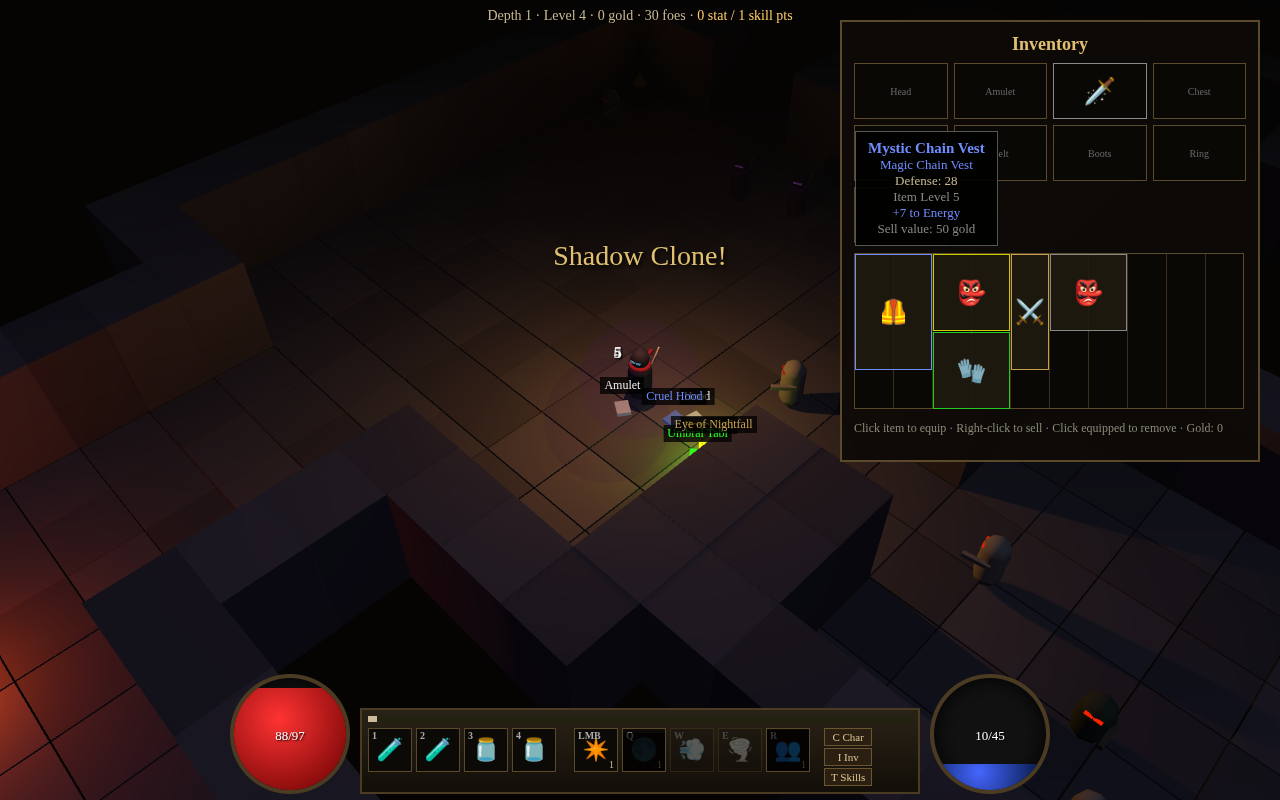
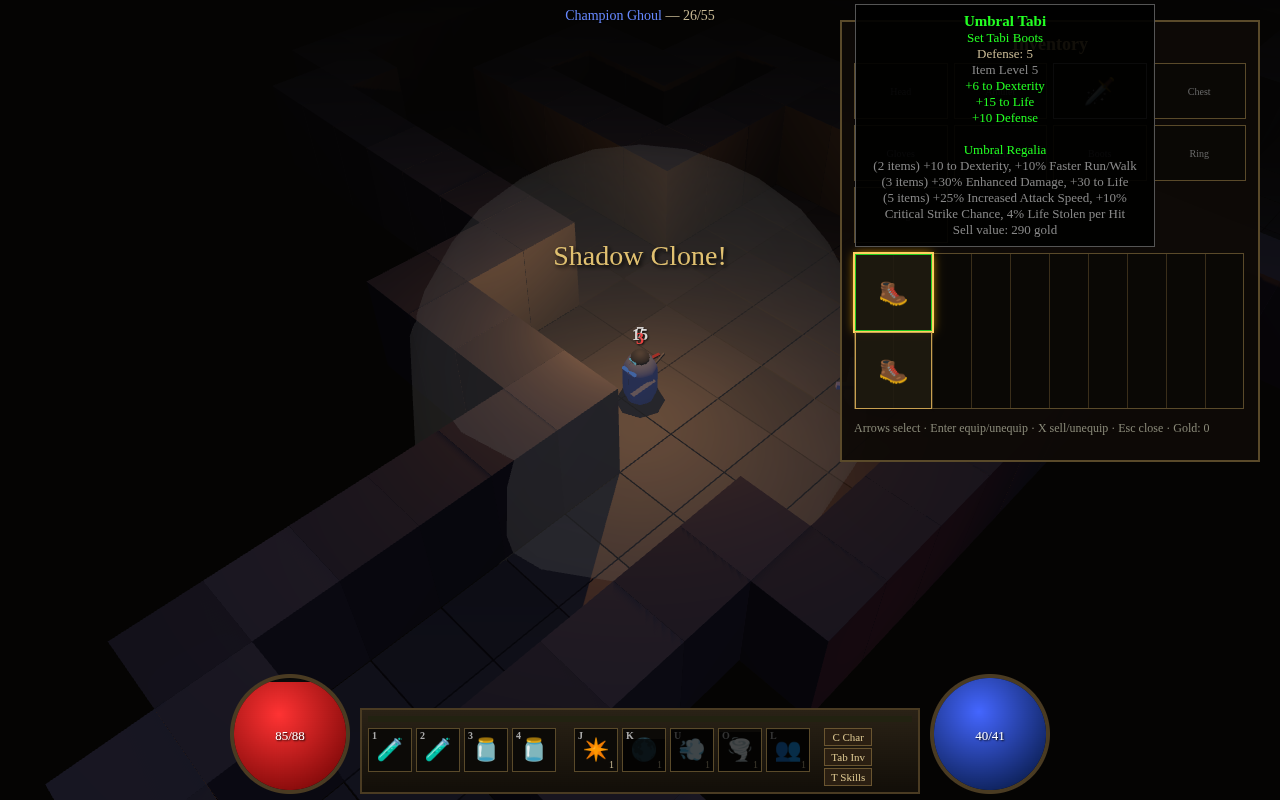
Full keyboard controls, panel navigation, death screen

diff --git a/game.js b/game.js
@@ -82,14 +82,14 @@ const P={lvl:1,xp:0,str:15,dex:25,vit:15,ene:12,pts:0,sp:1,gold:0,hp:1,mp:1,pos:
  eq:{},inv:[],belt:[],skills:{shuriken:1,step:1,fifth:1,clone:1,smoke:0,venom:0,evasion:0,flurry:0,mastery:0},cds:{},clones:[],cloneT:0,dead:false};
 P.belt=['hp','hp','mp','mp'];
 const SK={
- shuriken:{n:'Shuriken Spread',ic:'✴',key:'LMB',t:1,d:r=>`Throw 3 shurikens in a spread. +${15*r}% damage.`},
- step:{n:'Shadow Step',ic:'🌑',key:'Q',t:1,mana:8,cd:r=>Math.max(1.5,5-r*0.3),d:r=>`Teleport behind the nearest enemy and strike for ${150+40*r}% damage.`},
+ shuriken:{n:'Shuriken Spread',ic:'✴',key:'J',t:1,d:r=>`Throw 3 shurikens in a spread. +${15*r}% damage.`},
+ step:{n:'Shadow Step',ic:'🌑',key:'K',t:1,mana:8,cd:r=>Math.max(1.5,5-r*0.3),d:r=>`Teleport behind the nearest enemy and strike for ${150+40*r}% damage.`},
  fifth:{n:'Fifth Star',ic:'⭐',t:1,pass:1,d:r=>`Passive: every 5th attack fires ${r} extra shuriken(s).`},
- smoke:{n:'Smoke Bomb',ic:'💨',key:'W',t:2,mana:12,cd:r=>8,req:'step',d:r=>`Blinds & stuns nearby enemies for ${(1.5+r*0.25).toFixed(1)}s and deals ${80+30*r}% damage.`},
+ smoke:{n:'Smoke Bomb',ic:'💨',key:'U',t:2,mana:12,cd:r=>8,req:'step',d:r=>`Blinds & stuns nearby enemies for ${(1.5+r*0.25).toFixed(1)}s and deals ${80+30*r}% damage.`},
  venom:{n:'Venom Edge',ic:'🧪',t:2,pass:1,req:'shuriken',d:r=>`Passive: hits poison for ${10*r}% weapon damage per second (3s).`},
  evasion:{n:'Evasion',ic:'🌀',t:2,pass:1,req:'fifth',d:r=>`Passive: ${Math.min(40,4*r)}% chance to dodge attacks.`},
- flurry:{n:'Blade Flurry',ic:'🌪',key:'E',t:3,mana:15,cd:r=>3,req:'smoke',d:r=>`Spin, slashing all nearby enemies for ${200+50*r}% damage.`},
- clone:{n:'Shadow Clone',ic:'👥',key:'R',t:1,mana:25,cd:r=>Math.max(15,30-r),d:r=>`Summon two shadow ninjas that copy your attacks for ${10+Math.floor(r/2)}s at ${50+10*r}% damage.`},
+ flurry:{n:'Blade Flurry',ic:'🌪',key:'O',t:3,mana:15,cd:r=>3,req:'smoke',d:r=>`Spin, slashing all nearby enemies for ${200+50*r}% damage.`},
+ clone:{n:'Shadow Clone',ic:'👥',key:'L',t:1,mana:25,cd:r=>Math.max(15,30-r),d:r=>`Summon two shadow ninjas that copy your attacks for ${10+Math.floor(r/2)}s at ${50+10*r}% damage.`},
  mastery:{n:'Shadow Mastery',ic:'🗡',t:3,pass:1,req:'clone',d:r=>`Passive: +${3*r}% critical chance and +${5*r}% damage.`}};
 const TIERLVL={1:1,2:6,3:12};
 function stat(k){let v=0;for(const s in P.eq){const it=P.eq[s];if(it&&it.a[k])v+=it.a[k];}
@@ -186,22 +186,22 @@ function ui(){recalc();
   $('#belt').innerHTML=P.belt.map((p,i)=>`<div class="slot"><b>${i+1}</b>${p?(p==='hp'?'🧪':'🫙'):''}</div>`).join('');
   $('#skills').innerHTML=['shuriken','step','smoke','flurry','clone'].map(k=>`<div class="slot" title="${SK[k].n}" style="${P.skills[k]?'':'opacity:.3'}"><b>${SK[k].key}</b>${SK[k].ic}<i>${P.skills[k]||''}</i><div class="cd" id="cd_${k}"></div></div>`).join('');
   const c=$('#char');c.innerHTML=`<h2>Nyx — Shadow Ninja</h2><div class="row"><span>Level</span><span>${P.lvl}</span></div><div class="row"><span>Experience</span><span>${P.xp} / ${xpNeed(P.lvl)}</span></div><div class="row"><span>Gold</span><span>${P.gold}</span></div>
-   <div class="row"><span>Stat points</span><span>${P.pts}</span></div>`+[['str','Strength'],['dex','Dexterity'],['vit','Vitality'],['ene','Energy']].map(([k,n])=>`<div class="row"><span>${n}</span><span>${S[k]}${P.pts?`<button class="plus" data-a="${k}">+</button>`:''}</span></div>`).join('')+
+   <div class="row"><span>Stat points</span><span>${P.pts}</span></div>`+[['str','Strength'],['dex','Dexterity'],['vit','Vitality'],['ene','Energy']].map(([k,n])=>`<div class="row attr"><span>${n}</span><span>${S[k]}${P.pts?`<button class="plus" data-a="${k}">+</button>`:''}</span></div>`).join('')+
    `<br><div class="row"><span>Damage</span><span>${Math.round(S.dmin*(1+S.ed/100))}-${Math.round(S.dmax*(1+S.ed/100))}</span></div><div class="row"><span>Attacks / sec</span><span>${S.aps.toFixed(2)}</span></div><div class="row"><span>Crit chance</span><span>${S.crit.toFixed(1)}%</span></div>
    <div class="row"><span>Defense</span><span>${S.armor}</span></div><div class="row"><span>Life</span><span>${Math.round(S.maxhp)}</span></div><div class="row"><span>Mana</span><span>${Math.round(S.maxmp)}</span></div><div class="row"><span>Life steal</span><span>${S.ll}%</span></div><div class="row"><span>Magic find</span><span>${S.mf}%</span></div><div class="row"><span>Dodge</span><span>${S.dodge}%</span></div>`;
-  c.querySelectorAll('[data-a]').forEach(b=>b.onclick=()=>{P[b.dataset.a]++;P.pts--;ui();});
+  c.innerHTML+='<p class="small">↑↓ select attribute · Enter spend point · Esc close</p>';c.querySelectorAll('[data-a]').forEach(b=>b.onclick=()=>{P[b.dataset.a]++;P.pts--;ui();});
   const tr=$('#tree');let th=`<h2>Skill Tree — ${P.sp} point(s)</h2>`;
   for(const t of [1,2,3]){th+=`<div style="color:#998;margin-top:6px">Tier ${t} (level ${TIERLVL[t]})</div>`;for(const k in SK){const s=SK[k];if(s.t!==t)continue;const r=P.skills[k];
     const ok=P.lvl>=TIERLVL[t]&&(!s.req||P.skills[s.req]>0);th+=`<div class="tnode ${ok?'':'locked'}"><h4><span>${s.ic} ${s.n}${s.key?' ['+s.key+']':''}</span><span>${r}/20 ${ok&&P.sp&&r<20?`<button class="plus" data-s="${k}">+</button>`:''}</span></h4><p>${s.d(Math.max(1,r))}</p>${s.req?`<p style="color:#776">Requires ${SK[s.req].n}</p>`:''}</div>`;}}
-  tr.innerHTML=th;tr.querySelectorAll('[data-s]').forEach(b=>b.onclick=()=>{P.skills[b.dataset.s]++;P.sp--;ui();});
+  th+='<p class="small">↑↓ select · Enter learn · Esc close</p>';tr.innerHTML=th;tr.querySelectorAll('[data-s]').forEach(b=>b.onclick=()=>{P.skills[b.dataset.s]++;P.sp--;ui();});
   const inv=$('#inv');inv.innerHTML=`<h2>Inventory</h2><div id="equip">${SLOTS.map(([s,n])=>{const it=P.eq[s];return `<div class="eq ${it?'r'+it.r:''}" data-e="${s}">${it?`<span class="ic">${it.base.ic}</span>`:n}</div>`}).join('')}</div>
    <div id="grid">${P.inv.map(it=>`<div class="it r${it.r}" data-i="${it.id}" style="left:${it.x*39}px;top:${it.y*39}px;width:${it.base.w*39-1}px;height:${it.base.h*39-1}px">${it.base.ic}</div>`).join('')}</div>
-   <p class="small">Click item to equip · Right-click to sell · Click equipped to remove · Gold: ${P.gold}</p>`;
+   <p class="small">Arrows select · Enter equip/unequip · X sell/unequip · Esc close · Gold: ${P.gold}</p>`;
   inv.querySelectorAll('[data-e]').forEach(el=>{const s=el.dataset.e;el.onclick=()=>{hideTip();unequip(s);};el.onmouseenter=()=>P.eq[s]&&showTip(P.eq[s],el);el.onmouseleave=hideTip;});
   inv.querySelectorAll('[data-i]').forEach(el=>{const it=P.inv.find(i=>i.id==el.dataset.i);el.onclick=()=>{hideTip();equip(it);};
     el.oncontextmenu=e=>{e.preventDefault();hideTip();P.inv=P.inv.filter(i=>i!==it);P.gold+=it.value;ui();};
-    el.onmouseenter=()=>{const s=it.base.s==='ring'?'ring1':it.base.s,cur=P.eq[s];showTip(it,el,cur?'Currently equipped: '+cur.name:'');};el.onmouseleave=hideTip;});}
-function toggle(id){if(id==='char')$('#tree').classList.add('hidden');if(id==='tree')$('#char').classList.add('hidden');$('#'+id).classList.toggle('hidden');hideTip();}
+    el.onmouseenter=()=>{const s=it.base.s==='ring'?'ring1':it.base.s,cur=P.eq[s];showTip(it,el,cur?'Currently equipped: '+cur.name:'');};el.onmouseleave=hideTip;});navUI();}
+function toggle(id){const el=$('#'+id);const opening=el.classList.contains('hidden');if(id==='char')$('#tree').classList.add('hidden');if(id==='tree')$('#char').classList.add('hidden');el.classList.toggle('hidden');activePanel=opening?id:(['tree','char','inv'].find(p=>!$('#'+p).classList.contains('hidden'))||null);ui();}
 document.querySelectorAll('#btns button').forEach(b=>b.onclick=()=>toggle(b.dataset.p));
 // ---------- input ----------
 const mouse=new THREE.Vector2(),ray=new THREE.Raycaster(),plane=new THREE.Plane(new THREE.Vector3(0,1,0),0);let mdown=false,shift=false,hoverEn=null,mouseWorld=new THREE.Vector3();
@@ -212,10 +212,41 @@ renderer.domElement.addEventListener('contextmenu',e=>e.preventDefault());
 renderer.domElement.addEventListener('mousedown',e=>{updMouse(e);if(e.button===2){cast('step');return;}mdown=true;P.pickup=null;
   if(hoverEn){P.atkTarget=hoverEn;P.target=null;}else if(shift){P.atkTarget=null;P.target=null;attackAt(mouseWorld);}else{P.atkTarget=null;P.target=mouseWorld.clone();}});
 addEventListener('mouseup',()=>mdown=false);
-addEventListener('keydown',e=>{if(e.key==='Shift')shift=true;const k=e.key.toLowerCase();
-  if(k==='q')cast('step');if(k==='w')cast('smoke');if(k==='e')cast('flurry');if(k==='r')cast('clone');
-  if('1234'.includes(k)&&k)drink(+k-1);if(k==='i')toggle('inv');if(k==='c')toggle('char');if(k==='t'||k==='s')toggle('tree');if(k==='escape')['inv','char','tree'].forEach(i=>$('#'+i).classList.add('hidden'));});
-addEventListener('keyup',e=>{if(e.key==='Shift')shift=false;});
+const keys=new Set();let activePanel=null;const sel={inv:0,tree:0,char:0};
+const KEYMAP={k:'step',u:'smoke',o:'flurry',l:'clone'};
+addEventListener('keydown',e=>{const k=e.key.toLowerCase();if(['tab',' ','arrowup','arrowdown','arrowleft','arrowright'].includes(k))e.preventDefault();
+  if(k==='shift')shift=true;
+  if($('#title')){if(k==='enter')$('#start').click();return;}
+  if(P.dead){if(k==='enter')respawn();return;}
+  if(activePanel&&['arrowup','arrowdown','arrowleft','arrowright','enter','x','delete','backspace'].includes(k)){panelKey(k);return;}
+  keys.add(k);
+  if(KEYMAP[k]&&!e.repeat)cast(KEYMAP[k]);
+  if((k==='e'||k===' ')&&!e.repeat)pickupNearest();
+  if('1234'.includes(k)&&k.length===1)drink(+k-1);
+  if(k==='tab'||k==='b')toggle('inv');if(k==='c')toggle('char');if(k==='t')toggle('tree');
+  if(k==='escape'){['inv','char','tree'].forEach(i=>$('#'+i).classList.add('hidden'));activePanel=null;hideTip();}});
+addEventListener('keyup',e=>{const k=e.key.toLowerCase();keys.delete(k);if(k==='shift')shift=false;});
+addEventListener('blur',()=>keys.clear());
+function pickupNearest(){let b=null,bd=2.5;drops.forEach(d=>{const x=d.m.position.distanceTo(P.pos);if(x<bd){bd=x;b=d;}});if(b)tryPickup(b);else msg('Nothing to pick up');}
+function invList(){return [...SLOTS.map(([s])=>({eq:s})),...P.inv.slice().sort((a,b)=>a.y-b.y||a.x-b.x).map(it=>({it}))];}
+function treeList(){return Object.keys(SK);}
+const ATTRS=['str','dex','vit','ene'];
+function panelKey(k){const p=activePanel;
+  if(p==='inv'){const L=invList(),n=L.length;let i=Math.min(sel.inv,n-1);
+    if(k==='arrowright')i++;if(k==='arrowleft')i--;if(k==='arrowdown')i+=i<9?4:3;if(k==='arrowup')i-=i<9?4:3;i=Math.max(0,Math.min(n-1,i));sel.inv=i;const c=L[i];
+    if(k==='enter'){if(c.eq)unequip(c.eq);else equip(c.it);}
+    if(k==='x'||k==='delete'||k==='backspace'){if(c.eq)unequip(c.eq);else{P.inv=P.inv.filter(o=>o!==c.it);P.gold+=c.it.value;msg('Sold for '+c.it.value+' gold');}}}
+  if(p==='tree'){const L=treeList();let i=sel.tree;if(k==='arrowdown'||k==='arrowright')i++;if(k==='arrowup'||k==='arrowleft')i--;sel.tree=(i+L.length)%L.length;
+    if(k==='enter'){const s=SK[L[sel.tree]],key=L[sel.tree];if(P.sp>0&&P.skills[key]<20&&P.lvl>=TIERLVL[s.t]&&(!s.req||P.skills[s.req]>0)){P.skills[key]++;P.sp--;msg(s.n+' rank '+P.skills[key]);}else msg('Cannot learn');}}
+  if(p==='char'){let i=sel.char;if(k==='arrowdown')i++;if(k==='arrowup')i--;sel.char=(i+4)%4;if(k==='enter'&&P.pts>0){P[ATTRS[sel.char]]++;P.pts--;}}
+  ui();}
+function navUI(){hideTip();document.querySelectorAll('.sel').forEach(e=>e.classList.remove('sel'));
+  const ii=$('#inv'),tt=$('#tree'),cc=$('#char');
+  if(!ii.classList.contains('hidden')){const L=invList();sel.inv=Math.min(sel.inv,L.length-1);const c=L[sel.inv];const el=c.eq?ii.querySelector(`[data-e="${c.eq}"]`):ii.querySelector(`[data-i="${c.it.id}"]`);
+    if(el){el.classList.add('sel');if(activePanel==='inv'){const it=c.eq?P.eq[c.eq]:c.it;if(it){const s=it.base.s==='ring'?'ring1':it.base.s,cur=!c.eq&&P.eq[s];showTip(it,el,cur?'Currently equipped: '+cur.name:'');}}}}
+  if(!tt.classList.contains('hidden')){const el=tt.querySelectorAll('.tnode')[sel.tree];el&&el.classList.add('sel');el&&el.scrollIntoView({block:'nearest'});}
+  if(!cc.classList.contains('hidden')){const el=cc.querySelectorAll('.attr')[sel.char];el&&el.classList.add('sel');}}
+function respawn(){if(!P.dead)return;$('#death').classList.add('hidden');P.dead=false;recalc();P.hp=S.maxhp;P.mp=S.maxmp;newLevel();ui();}
 function drink(i){const p=P.belt[i];if(!p)return;if(p==='hp')P.hpPot=(P.hpPot||0)+S.maxhp*0.5;else P.mp=Math.min(S.maxmp,P.mp+S.maxmp*0.5);P.belt[i]=null;
   const j=P.belt.indexOf(null);ui();}
 // ---------- combat ----------
@@ -236,7 +267,7 @@ function cast(k){const r=P.skills[k];if(!r||P.dead)return;const s=SK[k];if((P.cd
   if(k==='clone'){P.clones.forEach(c=>scene.remove(c));P.clones=[0,1].map(i=>{const c=ninjaMesh(true);scene.add(c);return c;});P.cloneT=10+Math.floor(r/2);burst(P.pos,0x440088,1.5);msg('Shadow Clone!');}
   P.mp-=s.mana;P.cds[k]=s.cd(r);}
 function hurtPlayer(d){if(P.dead)return;if(Math.random()*100<S.dodge){popText(P.pos,'Dodge','#9cf');return;}d=Math.max(1,Math.round(d*100/(100+S.armor)));P.hp-=d;popText(P.pos,d,'#f44');
-  if(P.hp<=0){P.dead=true;P.hp=0;msg('You have died. Respawning...');const lost=Math.floor(P.gold*0.2);P.gold-=lost;setTimeout(()=>{P.dead=false;recalc();P.hp=S.maxhp;P.mp=S.maxmp;newLevel();ui();},2500);}}
+  if(P.hp<=0){P.dead=true;P.hp=0;const lost=Math.floor(P.gold*0.2);P.gold-=lost;$('#death').classList.remove('hidden');}}
 // ---------- loop ----------
 const clock=new THREE.Clock();const v3=new THREE.Vector3();
 function moveToward(pos,tgt,sp,dt,r){const d=v3.set(tgt.x-pos.x,0,tgt.z-pos.z);const L=d.length();if(L<0.05)return true;d.multiplyScalar(Math.min(L,sp*dt)/L);
@@ -249,6 +280,11 @@ function tick(){requestAnimationFrame(tick);const dt=Math.min(clock.getDelta(),0
   P.atkCd-=dt;for(const k in P.cds)P.cds[k]-=dt;
   if(mdown&&!P.dead&&!P.atkTarget){if(hoverEn)P.atkTarget=hoverEn;else if(shift)attackAt(mouseWorld);else P.target=mouseWorld.clone();}
   const spd=6*(1+S.ms/100);let moving=false;
+  if(!P.dead){const f=(keys.has('w')||keys.has('arrowup')&&!activePanel?1:0)-(keys.has('s')?1:0),r=(keys.has('d')?1:0)-(keys.has('a')?1:0);
+    if(f||r){const dir=new THREE.Vector3(-f+r,0,-f-r).normalize();P.target=null;P.atkTarget=null;P.pickup=null;moveToward(P.pos,P.pos.clone().addScaledVector(dir,1),spd,dt,0.35);moving=true;pMesh.rotation.y=Math.atan2(dir.x,dir.z);}
+    if(keys.has('j')){const fa=pMesh.rotation.y,fd=new THREE.Vector3(Math.sin(fa),0,Math.cos(fa));let best=null,bs=-1;
+      enemies.forEach(e=>{const to=new THREE.Vector3().subVectors(e.g.position,P.pos).setY(0),d=to.length();if(d>12||d<0.01)return;const dot=to.normalize().dot(fd);if(dot>0.5){const sc=dot-d/24;if(sc>bs){bs=sc;best=e;}}});
+      const keep=pMesh.rotation.y;attackAt(best?best.g.position.clone():P.pos.clone().addScaledVector(fd,5));if(moving)pMesh.rotation.y=keep;}}
   if(!P.dead){if(P.atkTarget){if(P.atkTarget.hp<=0||!enemies.includes(P.atkTarget))P.atkTarget=null;else{const ep=P.atkTarget.g.position;
       if(ep.distanceTo(P.pos)>10){moveToward(P.pos,ep,spd,dt,0.35);moving=true;faceTo(ep);}else{attackAt(ep);if(!mdown&&P.atkCd>0.9/S.aps)P.atkTarget=null;}}}
     else if(P.target){moving=!moveToward(P.pos,P.target,spd,dt,0.35);faceTo(P.target);if(!moving)P.target=null;
@@ -256,7 +292,7 @@ function tick(){requestAnimationFrame(tick);const dt=Math.min(clock.getDelta(),0
   // auto gold / potion pickup
   drops.slice().forEach(d=>{if((d.gold)&&d.m.position.distanceTo(P.pos)<1)tryPickup(d);});
   if(stairs&&P.pos.distanceTo(stairs.position)<1&&!P.dead){depth++;newLevel();ui();}
-  pMesh.position.copy(P.pos);pMesh.position.y=moving?Math.abs(Math.sin(t*12))*0.12:0;if(pMesh.userData.spin>0){pMesh.userData.spin-=dt;pMesh.rotation.y+=dt*30;}
+  pMesh.position.copy(P.pos);pMesh.position.y=(moving||P.target)?Math.abs(Math.sin(t*12))*0.12:0;if(pMesh.userData.spin>0){pMesh.userData.spin-=dt;pMesh.rotation.y+=dt*30;}
   ring.visible=!!P.target;if(P.target)ring.position.set(P.target.x,0.03,P.target.z);
   torch.position.set(P.pos.x,4,P.pos.z);camera.position.copy(P.pos).add(CAMOFF);camera.lookAt(P.pos);
   // clones
@@ -289,7 +325,7 @@ function tick(){requestAnimationFrame(tick);const dt=Math.min(clock.getDelta(),0
   $('#mpOrb .fill').style.height=(P.mp/S.maxmp*100)+'%';$('#mpOrb span').textContent=`${Math.floor(P.mp)}/${Math.round(S.maxmp)}`;
   $('#xpbar .fill').style.width=(P.xp/xpNeed(P.lvl)*100)+'%';
   for(const k of ['step','smoke','flurry','clone']){const el=document.getElementById('cd_'+k);if(el)el.style.height=Math.max(0,(P.cds[k]||0)/SK[k].cd(P.skills[k]||1)*100)+'%';}
-  const he=hoverEn;$('#topinfo').innerHTML=he?`<span style="color:${he.champ?'#68f':'#eee'}">${he.name}</span> — ${Math.ceil(he.hp)}/${Math.ceil(he.maxhp)}`:`Depth ${depth} · Level ${P.lvl} · ${P.gold} gold · ${enemies.length} foes${P.pts||P.sp?` · <span style="color:#fc6">${P.pts} stat / ${P.sp} skill pts</span>`:''}`;
+  const he=hoverEn||(()=>{let b=null;enemies.forEach(e=>{if(e.awake&&(!b||e.g.position.distanceTo(P.pos)<b.g.position.distanceTo(P.pos)))b=e;});return b&&b.g.position.distanceTo(P.pos)<12?b:null;})();$('#topinfo').innerHTML=he?`<span style="color:${he.champ?'#68f':'#eee'}">${he.name}</span> — ${Math.ceil(he.hp)}/${Math.ceil(he.maxhp)}`:`Depth ${depth} · Level ${P.lvl} · ${P.gold} gold · ${enemies.length} foes${P.pts||P.sp?` · <span style="color:#fc6">${P.pts} stat / ${P.sp} skill pts</span>`:''}`;
   if(msgT>0){msgT-=dt;if(msgT<=0)$('#msg').textContent='';}
   renderer.render(scene,camera);}
 // ---------- start ----------

diff --git a/index.html b/index.html
@@ -11,7 +11,7 @@
     <div id="xpbar"><div class="fill"></div></div>
     <div id="belt"></div>
     <div id="skills"></div>
-    <div id="btns"><button data-p="char">C Char</button><button data-p="inv">I Inv</button><button data-p="tree">T Skills</button></div>
+    <div id="btns"><button data-p="char">C Char</button><button data-p="inv">Tab Inv</button><button data-p="tree">T Skills</button></div>
   </div>
   <div id="mpOrb" class="orb"><div class="fill"></div><span></span></div>
 </div>
@@ -20,8 +20,8 @@
 <div id="char" class="panel left hidden"></div>
 <div id="tree" class="panel left hidden"></div>
 <div id="inv" class="panel right hidden"></div>
-<div id="tip" class="hidden"></div>
+<div id="tip" class="hidden"></div><div id="death" class="hidden"><h1>YOU HAVE DIED</h1><p>You lost 20% of your gold.</p><p>Press <b>Enter</b> to rise again</p></div>
 <div id="title"><h1>SHADOWFALL</h1><p>Nyx — The Shadow Ninja</p><button id="start">Enter the Depths</button>
-<p class="small">Click to move · Click enemies to throw shurikens · Q W E R skills · 1-4 potions · I/C/T panels</p></div>
+<p class="small">Press <b>Enter</b> to begin</p><p class="small">WASD move · J attack (hold) · K Shadow Step · U Smoke Bomb · O Blade Flurry · L Shadow Clone<br>E/Space pick up · 1-4 potions · Tab/B inventory · C character · T skills · arrows+Enter in panels · Esc close · walk into the purple portal to descend</p></div>
 <script type="module" src="game.js"></script>
 </body></html>

diff --git a/style.css b/style.css
@@ -34,3 +34,6 @@ button{background:#2b1f12;color:#d9c48e;border:1px solid #6a5530;font-family:inh
 #msg{position:fixed;top:30%;width:100%;text-align:center;font-size:28px;color:#e0c070;text-shadow:2px 2px 4px #000;pointer-events:none}
 #title{position:fixed;inset:0;background:radial-gradient(#200 0%,#000 70%);display:flex;flex-direction:column;align-items:center;justify-content:center;z-index:30}
 #title h1{font-size:72px;letter-spacing:12px;color:#b02020;margin:0;text-shadow:0 0 30px #f00}#title button{font-size:20px;padding:10px 30px;margin:20px}.small{font-size:12px;color:#887}
+
+.sel{outline:2px solid #ffd060!important;box-shadow:0 0 10px #ffb000}
+#death{position:fixed;inset:0;background:rgba(40,0,0,.75);display:flex;flex-direction:column;align-items:center;justify-content:center;z-index:25;font-size:20px}#death h1{color:#c22;font-size:56px;letter-spacing:8px}
